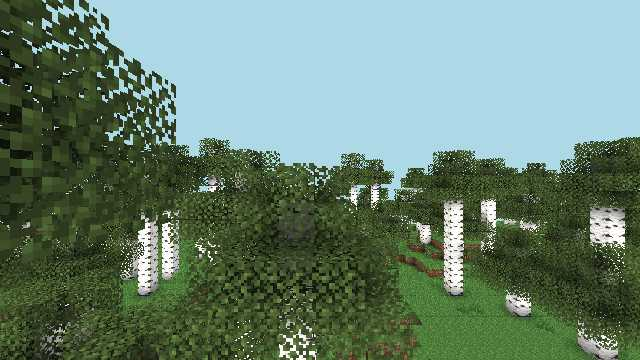
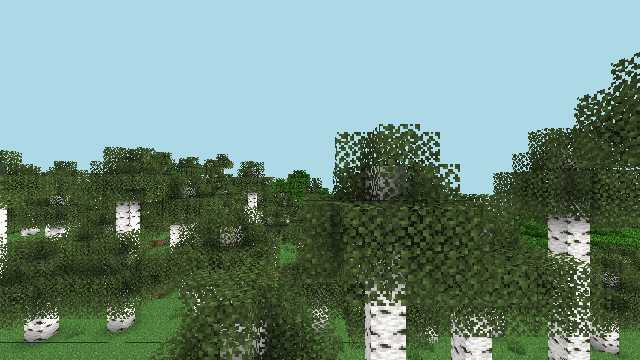
bot action: forwards-jump

diff --git a/README.md b/README.md
@@ -1,4 +1,8 @@
 
+> **Last Action:** `forwards-jump` | **Date:** 2025-12-16
+
+![Bot View](https://github.com/flatypus/flatypus/blob/main/mc-state.jpg?raw=true)
+
 > **Last Action:** `right` | **Date:** 2025-12-16
 
 ![Bot View](https://github.com/flatypus/flatypus/blob/main/mc-state.jpg?raw=true)
